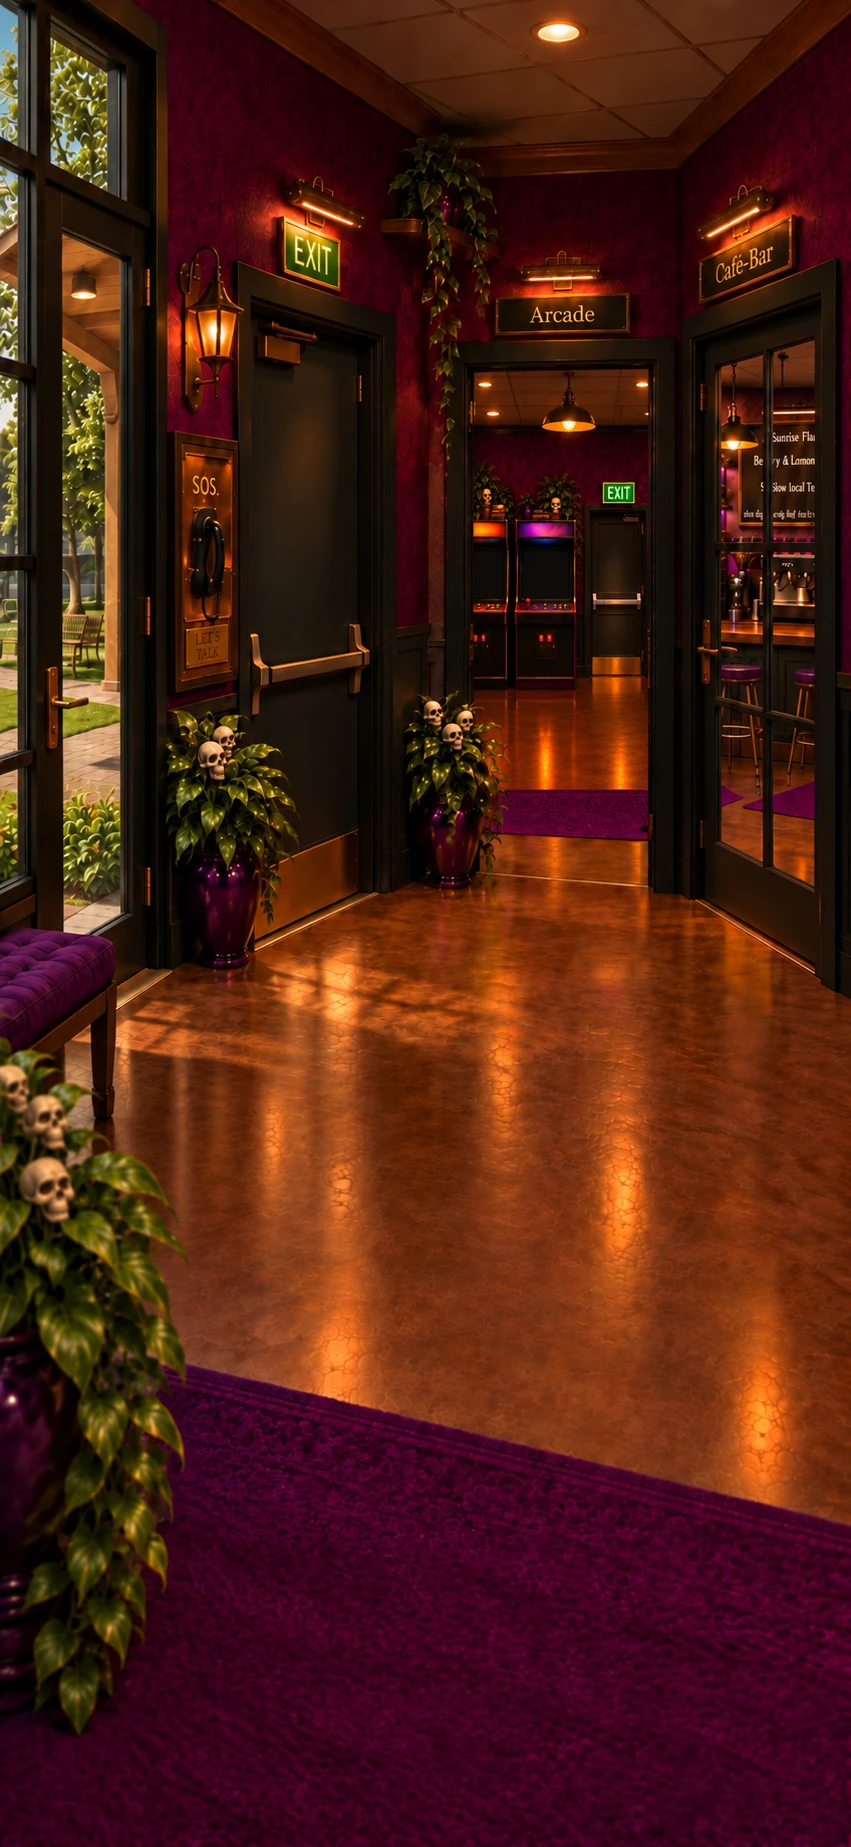
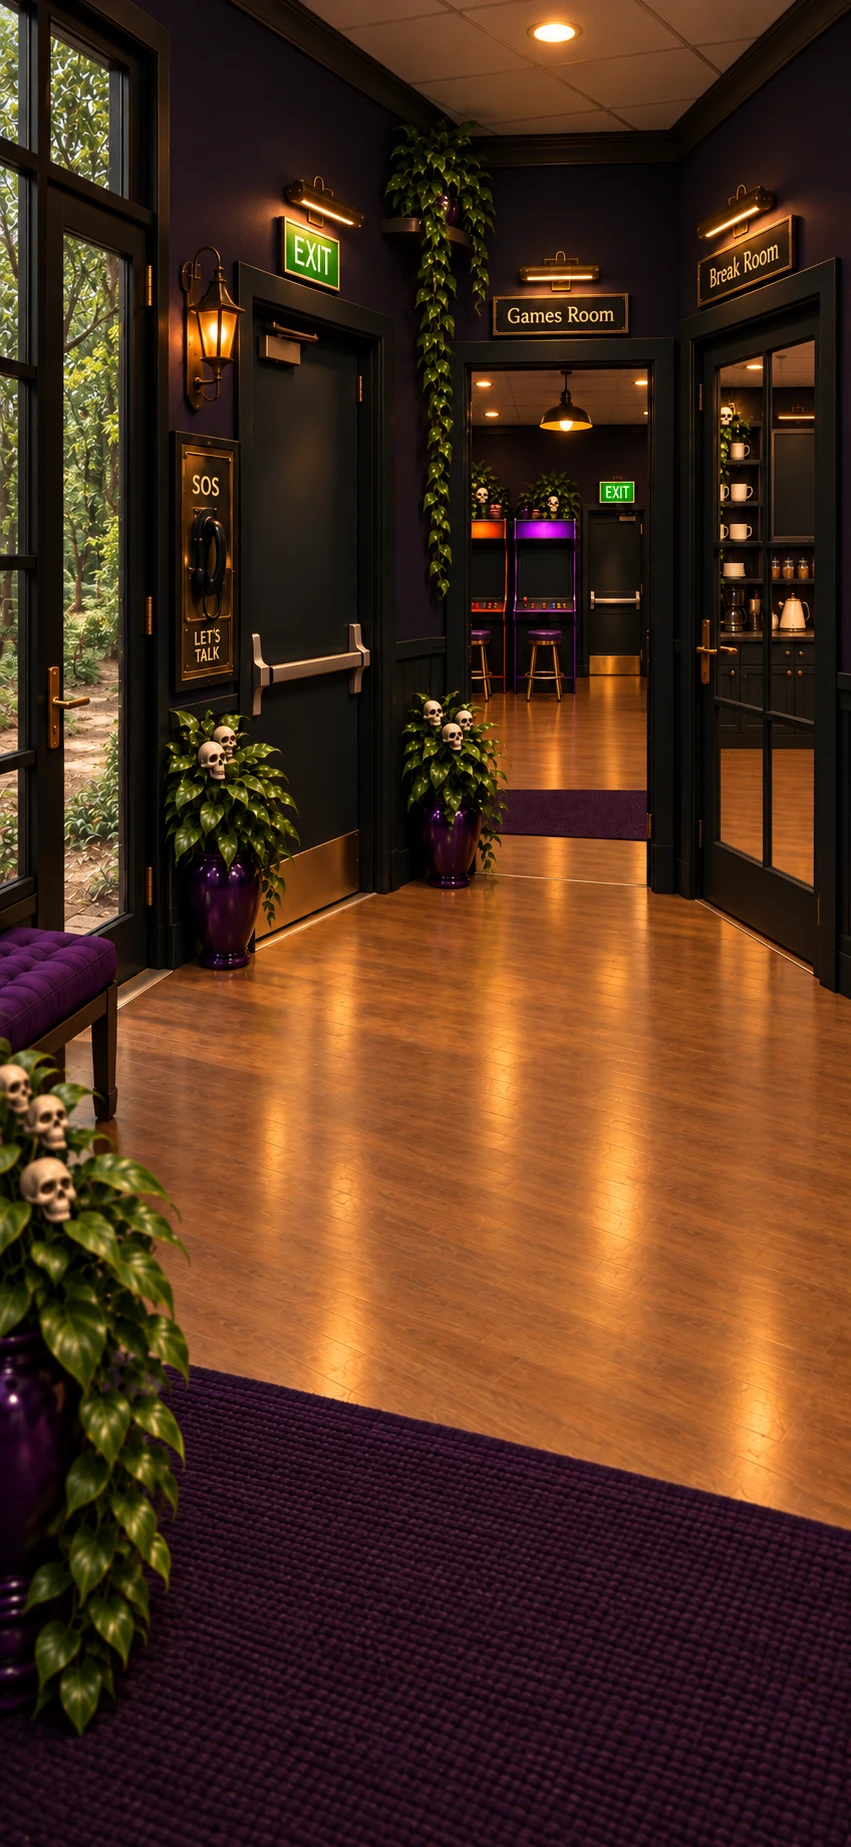
games room: new-style art + add left view (3-view), redistribute games
Home Right (shows Games Room + Break Room through the doors) + the Arcade
restyled as the anti-casino Games Room, now a 3-view room:
- Front: the two arcade cabinets (Skull Grove + Growth Shield)
- Left (NEW node arcade_left): the PS1 (Skull Haven)
- Right: the Game Boy (Skull Path) + the Break Room door
Internally still 'arcade' (routes/ids unchanged); shown to the user as
'Games Room'. Dims moved to 1024x1536. Hotspot positions rough — tuned in the
end editor pass.

Claude-Session: https://claude.ai/code/session_01KKhQMghLUspva6Yzs31jQ3

diff --git a/src/data/hubScene.ts b/src/data/hubScene.ts
@@ -303,50 +303,69 @@ export const HUB_NODES: Record<string, HubNode> = {
     ],
   },
 
-  // The Arcade — a front + right room, entered from the home-right "Arcade" door
-  // (and from the Café-Bar). Each device runs one of Marta's purpose-built games
-  // in a WebView cabinet (/arcade/<slug>). Fire exit + SOS = the urge flow; the
-  // Bar door (right view) connects straight to the Café-Bar. Rough boxes — drag
-  // each onto its device/door in the editor and export.
+  // The Games Room — a 3-view rec room (anti-casino on purpose: windows that
+  // show the real time of day, a clear exit, light, a way out — the opposite of
+  // a casino). Entered from the home-right "Games Room" door (and the Break
+  // Room). Each device runs one of Marta's games in a WebView cabinet
+  // (/arcade/<slug>): FRONT = the two arcade cabinets (Skull Grove + Growth
+  // Shield); LEFT = the PS1 (Skull Haven); RIGHT = the Game Boy (Skull Path) +
+  // the Break Room door. Fire exit + SOS = the forest. Internally still "arcade"
+  // (routes/ids), shown to the user as "Games Room". Rough boxes — tune + export.
   arcade: {
     id: "arcade",
-    title: "The Arcade",
+    title: "Games Room",
     image: require("../../assets/scenes/arcade_front.png"),
-    imgW: 851,
-    imgH: 1847,
+    imgW: 1024,
+    imgH: 1536,
     fit: "screen",
+    left: "arcade_left",
     right: "arcade_right",
     back: "right",
     hotspots: [
       // The two cabinets → the shooters.
-      { id: "a_cab1", caption: "Skull Grove", kind: "glow", tint: "warm", interaction: "object", haptic: "medium", glowScale: 0.7, glowMax: 0.5, x: 0.1, y: 0.26, w: 0.16, h: 0.17, action: { kind: "route", route: "/arcade/skull-grove" } },
-      { id: "a_cab2", caption: "Growth Shield", kind: "glow", tint: "purple", interaction: "object", haptic: "medium", glowScale: 0.7, glowMax: 0.5, x: 0.28, y: 0.26, w: 0.16, h: 0.17, action: { kind: "route", route: "/arcade/growth-shield" } },
-      // The Game Boy on the table (far left) → Skull Path.
-      { id: "a_gameboy", caption: "Skull Path", kind: "glow", tint: "warm", interaction: "object", haptic: "light", glowScale: 0.7, glowMax: 0.5, x: 0.0, y: 0.4, w: 0.1, h: 0.08, action: { kind: "route", route: "/arcade/skull-path" } },
-      // The CRT + console (far right) → Skull Haven (also reachable in the right view).
-      { id: "a_console", caption: "Skull Haven", kind: "glow", tint: "warm", interaction: "object", haptic: "light", glowScale: 0.7, glowMax: 0.5, x: 0.87, y: 0.37, w: 0.13, h: 0.1, action: { kind: "route", route: "/arcade/skull-haven" } },
-      // Fire exit + SOS booth = the urge flow.
-      { id: "a_exit", caption: "I need help now", kind: "glow", tint: "warm", interaction: "destination", haptic: "heavy", glowScale: 0.7, glowMax: 0.45, x: 0.52, y: 0.21, w: 0.16, h: 0.4, action: { kind: "forest", mode: "walk" } },
-      { id: "a_sos", caption: "I need help now", kind: "glow", tint: "warm", interaction: "object", haptic: "heavy", glowMax: 0.5, x: 0.78, y: 0.23, w: 0.12, h: 0.15, action: { kind: "forest", mode: "jump" } },
+      { id: "a_cab1", caption: "Skull Grove", kind: "glow", tint: "warm", interaction: "object", haptic: "medium", glowScale: 0.7, glowMax: 0.5, x: 0.1, y: 0.24, w: 0.14, h: 0.22, action: { kind: "route", route: "/arcade/skull-grove" } },
+      { id: "a_cab2", caption: "Growth Shield", kind: "glow", tint: "purple", interaction: "object", haptic: "medium", glowScale: 0.7, glowMax: 0.5, x: 0.26, y: 0.24, w: 0.14, h: 0.22, action: { kind: "route", route: "/arcade/growth-shield" } },
+      // Fire exit + SOS booth = the forest.
+      { id: "a_exit", caption: "I need help now", kind: "glow", tint: "warm", interaction: "destination", haptic: "heavy", glowScale: 0.7, glowMax: 0.45, x: 0.44, y: 0.17, w: 0.16, h: 0.5, action: { kind: "forest", mode: "walk" } },
+      { id: "a_sos", caption: "I need help now", kind: "glow", tint: "warm", interaction: "object", haptic: "heavy", glowMax: 0.5, x: 0.68, y: 0.22, w: 0.12, h: 0.2, action: { kind: "forest", mode: "jump" } },
+    ],
+  },
+  // Games Room — LEFT view: the PS1 nook (Skull Haven). Turn right back to the
+  // cabinets; back out to the lobby. SOS booth here for urge access (no fire
+  // exit painted in this view).
+  arcade_left: {
+    id: "arcade_left",
+    title: "Games Room",
+    image: require("../../assets/scenes/arcade_left.png"),
+    imgW: 1024,
+    imgH: 1536,
+    fit: "screen",
+    right: "arcade",
+    back: "right",
+    hotspots: [
+      // The CRT + PS1 → Skull Haven.
+      { id: "al_console", caption: "Skull Haven", kind: "glow", tint: "warm", interaction: "object", haptic: "medium", glowScale: 0.7, glowMax: 0.5, x: 0.1, y: 0.28, w: 0.3, h: 0.25, action: { kind: "route", route: "/arcade/skull-haven" } },
+      // SOS booth = the forest (jump).
+      { id: "al_sos", caption: "I need help now", kind: "glow", tint: "warm", interaction: "object", haptic: "heavy", glowMax: 0.5, x: 0.42, y: 0.2, w: 0.12, h: 0.18, action: { kind: "forest", mode: "jump" } },
     ],
   },
   arcade_right: {
     id: "arcade_right",
-    title: "The Arcade",
+    title: "Games Room",
     image: require("../../assets/scenes/arcade_right.png"),
-    imgW: 851,
-    imgH: 1847,
+    imgW: 1024,
+    imgH: 1536,
     fit: "screen",
     left: "arcade",
     back: "right",
     hotspots: [
-      // The CRT + PS2 (centre) → Skull Haven.
-      { id: "ar_console", caption: "Skull Haven", kind: "glow", tint: "warm", interaction: "object", haptic: "medium", glowScale: 0.7, glowMax: 0.5, x: 0.43, y: 0.36, w: 0.19, h: 0.12, action: { kind: "route", route: "/arcade/skull-haven" } },
-      // Fire exit + SOS booth = the urge flow.
-      { id: "ar_exit", caption: "I need help now", kind: "glow", tint: "warm", interaction: "destination", haptic: "heavy", glowScale: 0.7, glowMax: 0.45, x: 0.08, y: 0.18, w: 0.16, h: 0.42, action: { kind: "forest", mode: "walk" } },
-      { id: "ar_sos", caption: "I need help now", kind: "glow", tint: "warm", interaction: "object", haptic: "heavy", glowMax: 0.5, x: 0.28, y: 0.24, w: 0.12, h: 0.15, action: { kind: "forest", mode: "jump" } },
-      // The Bar door (right) → the Café-Bar (arcade ↔ bar connection).
-      { id: "ar_bar", caption: "Café-Bar", kind: "glow", tint: "purple", interaction: "destination", haptic: "medium", glowScale: 0.6, glowMax: 0.5, x: 0.78, y: 0.18, w: 0.2, h: 0.5, action: { kind: "node", node: "cafebar" } },
+      // The Game Boy on the table → Skull Path.
+      { id: "ar_gameboy", caption: "Skull Path", kind: "glow", tint: "warm", interaction: "object", haptic: "medium", glowScale: 0.7, glowMax: 0.5, x: 0.45, y: 0.45, w: 0.14, h: 0.1, action: { kind: "route", route: "/arcade/skull-path" } },
+      // Fire exit + SOS booth = the forest.
+      { id: "ar_exit", caption: "I need help now", kind: "glow", tint: "warm", interaction: "destination", haptic: "heavy", glowScale: 0.7, glowMax: 0.45, x: 0.0, y: 0.15, w: 0.18, h: 0.55, action: { kind: "forest", mode: "walk" } },
+      { id: "ar_sos", caption: "I need help now", kind: "glow", tint: "warm", interaction: "object", haptic: "heavy", glowMax: 0.5, x: 0.2, y: 0.3, w: 0.12, h: 0.2, action: { kind: "forest", mode: "jump" } },
+      // The Break Room door (right) → the Break Room (games ↔ break room).
+      { id: "ar_bar", caption: "Break Room", kind: "glow", tint: "purple", interaction: "destination", haptic: "medium", glowScale: 0.6, glowMax: 0.5, x: 0.72, y: 0.1, w: 0.25, h: 0.7, action: { kind: "node", node: "cafebar" } },
     ],
   },
 
